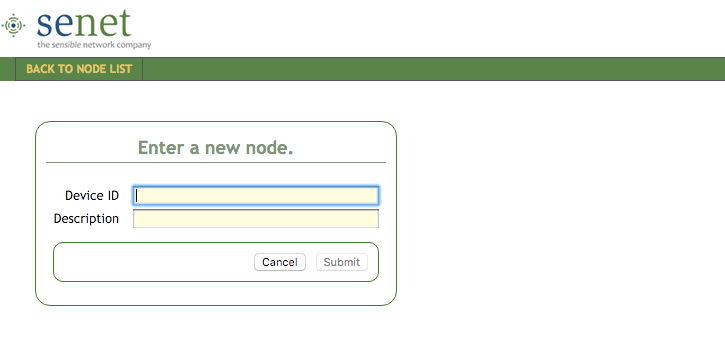
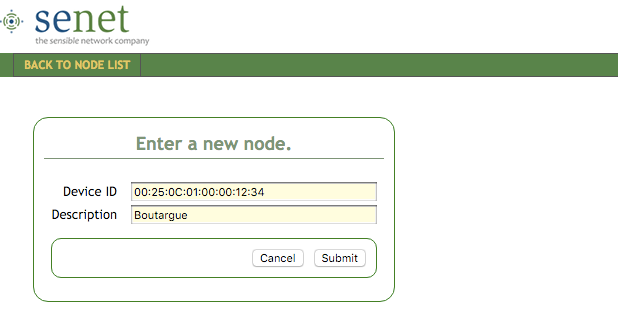
images and text

diff --git a/README.md b/README.md
@@ -4,7 +4,7 @@
 
 # Overview
 ###This project allows you to quickly try LoRa communications. 
-**LoRa** is an exciting new technology for communicating at **Lo**ng **Ra**nge, low power, and low cost.  This project sends data from an Arduino Uno and a [Multitech mDot LoRa node](http://www.multitech.com/models/94557148LF) to the [Senet LoRa network](https://app.senetco.com/senetdev/login.aspx). Senet's JSON data payloads are converted by [Zapier](https://zapier.com) into data rows in a Google Spreadsheet. 
+**LoRa** is an exciting new technology for communicating at **Lo**ng **Ra**nge, low power, and low cost.  This project uses an Arduino Uno and a [Multitech mDot LoRa node](http://www.multitech.com/models/94557148LF) to send data to the [Senet LoRa network](https://app.senetco.com/senetdev/login.aspx).  Senet provides the gateways to receive the LoRa signal; [Zapier](https://zapier.com) and  Google Spreadsheets provide the rest of the software. 
 
 This project should take about an hour to complete, once you have the hardware.
 
@@ -46,7 +46,7 @@ You need the basic equipment for the project and a set of sensors, either by Lit
 * [Arduino Uno](https://www.sparkfun.com/products/11021),  $25 
 * [XBee shield](http://www.robotmesh.com/xbee-shield-v2-0),  $10   
 * [Antenna for mDot](http://www.digikey.com/product-detail/en/multi-tech-systems/AN868-915A-10HRA/881-1242-ND/5246371), $10
-* [USB Type-A cable](https://www.adafruit.com/products/62), $4
+* [USB A-B cable](https://www.adafruit.com/products/62), $4
 * [mDOT USB developer board](http://www.multitech.com/brands/micro-mdot-devkit), _??get link with price!_
 * [Wires](https://www.adafruit.com/products/1956), $2 (you'll need 6 male-male wires)
 * [Semtech NorAm mote LoRa network tester](http://www.semtech.com/images/datasheet/NorAmMote_User_Guide_3v0.2.pdf), _??get link with price!_	
@@ -91,7 +91,7 @@ You'll use [Google Spreadsheets](https://docs.google.com/spreadsheets/u/0/) to v
 ## Verify LoRa coverage 
 [Senet](https://app.senetco.com/senetdev/login.aspx) provides a public LoRa network in North America and you'll need to verify where you have coverage. Specifically, there's a chance that you might not have coverage at your workbench, but that there's LoRa coverage in another part of your building or nearby. You can use [Semtech's NorAm LoRa Mote](http://www.semtech.com/images/datasheet/NorAmMote_User_Guide_3v0.2.pdf) to determine where you have coverage.  
   
-In this quickstart project, the North American (NorAm) mote receives a GPS signal and sends it to Senet as a hexadecimal data payload.  We convert that string into latitude and longitude (lat-long) data to view the exact location on a map. Senet refers to the data payload as a "packet data unit" (PDU). 
+In this quickstart project, the North American (NorAm) mote receives a GPS signal and sends its location to Senet as a hexadecimal data payload.  We convert that string into latitude and longitude (lat-long) data to view the exact location on a map. Senet refers to the data payload as a "packet data unit" (PDU). 
 
 ### Example
 >Hexadecimal PDU payload from the NorAm mote: `010235C107A8F6CCFFFA14`  
@@ -101,10 +101,17 @@ In this quickstart project, the North American (NorAm) mote receives a GPS signa
   	   	 
 ![NorAm mote GPS tester by Semtech](assets/NorAm_mote.jpg)
 
-### Send GPS data to Senet
-Once you have the Semtech NorAm mote and a Senet account, you'll need to register the device with Senet so they know to send you its data.  To do this, you'll need to input the hexadecimal device ID (e.g., `00:25:0C:01:00:00:12:34`) and create a nickname for the device (e.g., `Boutargue`).  If you're using a NorAm mote from the IoT Studio, then it will come pre-loaded with the device ID and firmware to operate on the Senet network. If you purchased a NorAm mote, then you will need to [contact Senet](http://www.senetco.com/) to get firmware and a device ID.
 
-The NorAm mote contains a battery so begin by charging it using a micro-USB cable in the `USB1` port.  The `CHG` light is red while the mote is charging and green when fully charged. The `USR` light blinks green while the mote is searching for GPS and is solid green when it has locked the GPS signal.  The lights for `1` `2` and `3`
+
+### Send GPS data to Senet
+Once you have the Semtech NorAm mote and a Senet account, you'll need to register the device with Senet so they know to send you its data.  After you're logged into your Senet account, click on `REGISTER NEW DEVICE`. Next input the hexadecimal device ID (e.g., `00:25:0C:01:00:00:12:34`) and create a nickname for the device (e.g., `Boutargue`).  If you're using a NorAm mote from the IoT Studio, then it will come pre-loaded with the device ID and firmware to operate on the Senet network. If you purchased a NorAm mote, then you will need to [contact Senet](http://www.senetco.com/) to get firmware and a device ID.
+
+![](assets/Senet_register_device.png)
+
+![](assets/Senet_new_node.png)
+
+
+The NorAm mote contains a battery so begin by charging it using a micro-USB cable in the `USB1` port.  The `CHG` light is red while the mote is charging and green when fully charged. The `USR` light blinks green while the mote is searching for GPS and is solid green when it has locked the GPS signal.  You don't need to worry about lights `1` `2` and `3` nor the `USB2` port which a port for updating the mote's firmware. 
 
 Next, operate the NorAm mote turning the `ON/OFF` switch to `ON`. When the mote is `ON` it (1) searches for a GPS signal to determine its location and (2) tries to send the signal to the nearest Senet gateway.  While there's no GPS signal, the mote transmits a null packet `010200000000000000001E` which translates to lat, long: `0, 0`, which is the [Gulf of Guinea](https://www.google.com/maps/place/0%C2%B000'00.0%22N+0%C2%B000'00.0%22E/@6.1567252,-4.3467511,4.41z/data=!4m2!3m1!1s0x0:0x0).  If you receive any null packets, **good news!**, you've got coverage.  If you receive a packet with data, even better, you can identify exactly where you have coverage.  
 
@@ -159,25 +166,31 @@ The file with just lat-long data should look like:
 
 ### mDot 
 [ ![](assets/button_mDot_firmware.png) ](assets/mDot_9600_baud.bin?raw=true)  
+
 By default, the Multitech mDot is configured to communicate with AT commands at a 115200 baud rate. However, we found that errors happened between the mDot and the Arduino when they tried to communitacte that fast, so [here's firmware](assets/mDot_9600_baud.bin?raw=true) with a slower 9600 baud rate, which works much better.  
 
 Mount the mDot on the mDot USB developer board and then plug it into the USB port on your computer.  On a MacBook it's simple to load the firmware: you drag & drop the .bin file into the mDot's disk image. _(We haven't done this on a Windows PC. If Windows is different, please let us know how you loaded the mDot firmware and we'll update the instructions here.)_ 
  
 _add image(s) of mDot w/ USB in computer_
 
+### Register the mDot with Senet and get identifiers
+You'll need to register the mDot with Senet to get identifiers that you'll use in the Arduino sketch.  First, go to the [Senet portal](https://app.senetco.com/senetdev/main.aspx) and register your device by providing the device ID number and what you want to name it (similar to what you did with the mote previously). 
 
-### Adruino Uno
+![](assets/Senet_register_mDot12.png)
+
+![](assets/Senet_register_mDot3456.png)
 
 
 ### Arduino sketch
 [![](assets/button_LoRa_Arduino_sketch.png)](assets/LoRa_Arduino_quickstart_April2016.ino?raw=true)  
- You'll need the [Arduino IDE](https://www.arduino.cc/en/Main/Software) to configure your code.  [This sketch](assets/LoRa_Arduino_quickstart_April2016.ino?raw=true) was developed for an Arduino Uno on a MacBook to allow the Arduino to send data to the Multitech mDot using [AT commands](https://en.wikipedia.org/wiki/Hayes_command_set).  If you're using a different type of computer and have trouble getting the project to work, please [let us know](http://orangeiotstudio.com/). 
 
-You'll need the Arduino IDE. 
+**You must customize your Arduino code so that it works with your mDot**.  You'll need the [Arduino IDE](https://www.arduino.cc/en/Main/Software) to configure [the LoRa-Arduino sketch](assets/LoRa_Arduino_quickstart_April2016.ino?raw=true).  
 
-**You must customize your Arduino code so that it works with your mDot**
 
-`/* AAA with ID ending in 11:22 */     const String mDot_name = "AAA"; const String Network_key =  "11:22:33:44:55:11:22:33:44:55:11:22:33:44:11:22"; const String Network_ID = "11:22:33:44:55";` 
+`/* AAA with ID ending in 11:22 */`     
+`const String mDot_name = "AAA";`   
+`const String Network_key =  "11:22:33:44:55:11:22:33:44:55:11:22:33:44:11:22";` 
+`const String Network_ID = "11:22:33:44:55";` 
 
 *show cassis and how we labeled the mDot and tied the device # to the name*
 
